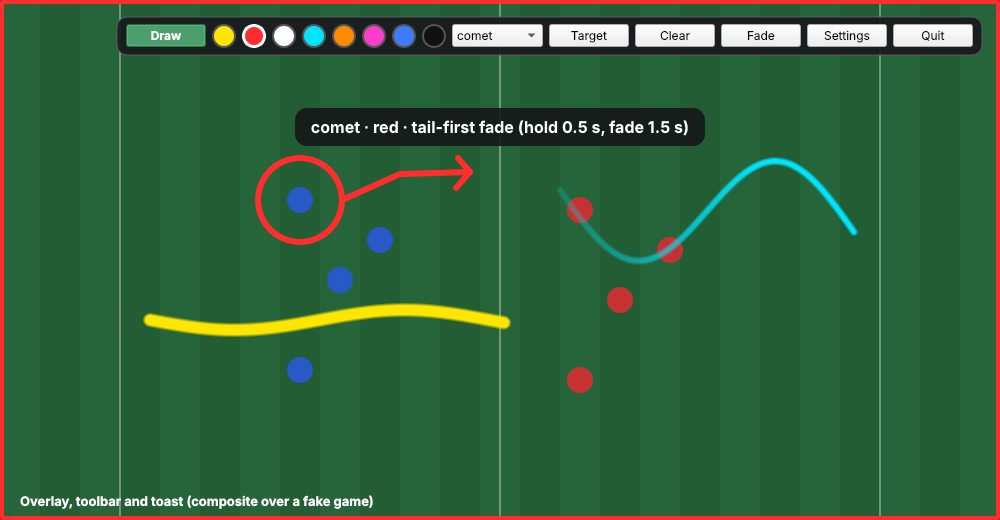
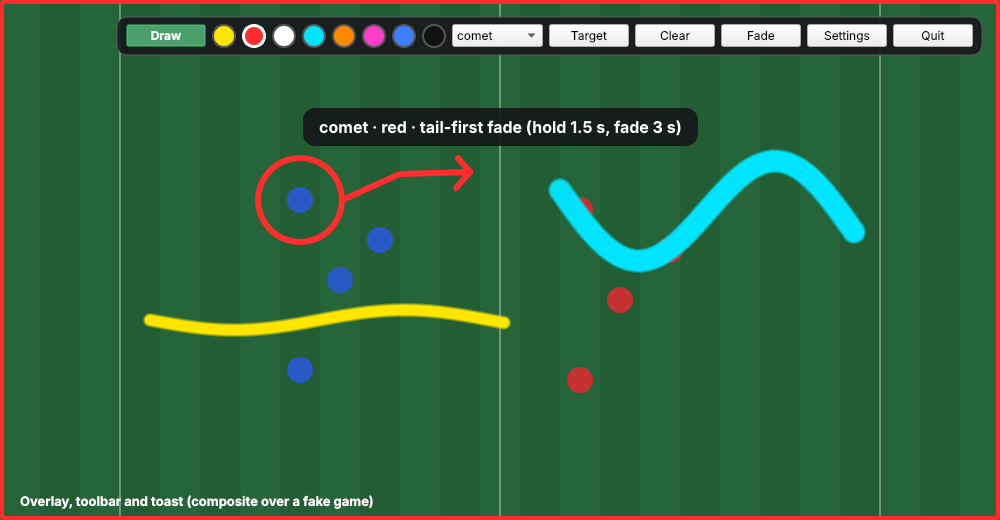
docs: update the comet defaults, mention reset, refresh screenshots
The README's pen table shows the new comet defaults (24 px, hold 1.5 s,
fade 3 s) and the settings section mentions the larger dialog and the
Reset to defaults button. The screenshot script now shows the settings
dialog at its own default size, and the pictures are regenerated.
Refreshes the session log.

AIA PAI SeCeNc Hin R Claude Code Web Sonnet 5.5 Medium v1.0

Vibe-Coder: Vibe-Coder 1.z3r0 <243014891+vibecoder-1z3r0@users.noreply.github.com>

Changed region(s): [[0.527, 0.2769, 0.868, 0.5231], [0.279, 0.2154, 0.713, 0.2769]]

diff --git a/scripts/screenshots.py b/scripts/screenshots.py
@@ -122,8 +122,7 @@ def overlay_screenshot(out: Path) -> None:
     frame.save(str(out / "overlay.png"))
 
     dialog = SettingsDialog(c.settings, c.pens)
-    dialog.resize(760, 420)
-    dialog.show()
+    dialog.show()  # at its own default size, as a user sees it
     dialog.grab().save(str(out / "settings.png"))
     dialog.close()
 

diff --git a/SESSION_LOG.md b/SESSION_LOG.md
@@ -77,17 +77,18 @@ Source: `/root/.claude/projects/-home-user/83b6fe43-fdef-5d48-9254-009a9ebfb942.
 | 71 | the clicks are going right through to the demo app when running `uv ru… | 12:59:18 | 1m 12s | 46s | 32 | 22,874 | 28,713 | 8,827,758 |
 | 72 | yes i can toggle draw mode | 13:01:16 | 5m 5s | 30m 51s ⏳ | 70 | 125,271 | 145,445 | 20,933,086 |
 | 73 | Yes go ahead make the pr | 13:37:11 | 3m 6s | 52m 44s ⏳ | 74 | 29,537 | 90,579 | 23,579,438 |
-| 74 | it actually works!! :) | 14:33:01 | 24s | — | 10 | 6,956 | 2,819 | 3,210,649 |
+| 74 | it actually works!! :) | 14:33:01 | 37s | 18s | 16 | 7,925 | 8,631 | 5,143,192 |
+| 75 | The settings box needs to be larger - also we need more sensible defau… | 14:33:56 | 2m 13s | — | 51 | 53,088 | 68,924 | 15,741,691 |
 
-**Total turns:** 74  
-**Total agent time spent (excl. flagged):** 1h 1m  
+**Total turns:** 75  
+**Total agent time spent (excl. flagged):** 1h 4m  
 **Total human think time (excl. outliers):** 1h 35m  
-**Average human think time (excl. outliers):** 1m 22s  
+**Average human think time (excl. outliers):** 1m 21s  
 **Think-time outliers (> 15 min):** 3  
-**Total input tokens:** 1,678  
-**Total output tokens:** 1,249,027  
-**Total cache-write tokens:** 2,340,206  
-**Total cache-read tokens:** 237,734,353  
+**Total input tokens:** 1,735  
+**Total output tokens:** 1,303,084  
+**Total cache-write tokens:** 2,414,942  
+**Total cache-read tokens:** 255,408,587  
 **Cache hit ratio (cache-read ÷ all prompt-side tokens):** 99%
 
 ⏳ Turn(s) 65, 72, 73 had a 'human think time' over 15 min (total 34h 59m) — likely a break, a resumed session, or time reading a long response rather than active back-and-forth. Excluded from BOTH the total and the average above (still shown per-row).

diff --git a/README.md b/README.md
@@ -83,7 +83,7 @@ Each pen has a color, width, feather (softness of the edge, in pixels; 0 is a ha
 | marker | red | 6 / 0 | held until cleared |
 | highlighter | yellow | 14 / 2 | held until cleared |
 | flash | magenta | 8 / 2 | timed fade: solid for 1 s after you lift the pen, then fade over 2 s |
-| comet | cyan | 8 / 2 | tail-first fade: each point holds 0.5 s, then fades over 1.5 s |
+| comet | cyan | 24 / 2 | tail-first fade: each point holds 1.5 s, then fades over 3 s |
 
 ![The three dissipation modes over time](docs/screenshots/dissipation.png)
 
@@ -91,7 +91,7 @@ Every pen has a **hold** time and a **fade** time, each from 0.0 to 10.0 seconds
 
 ### Settings
 
-Open **Settings** from the toolbar or tray. You can change the hotkey prefix (`Ctrl+Shift` or `Ctrl+Alt`, if a game already uses one), hold-to-draw (draw only while the draw key is held), the fade-all time and each pen. Settings are saved per user:
+Open **Settings** from the toolbar or tray. The dialog opens large enough to see every pen at once, and you can resize it. **Reset to defaults** puts the built-in values back in the form (nothing is saved until you press OK). You can change the hotkey prefix (`Ctrl+Shift` or `Ctrl+Alt`, if a game already uses one), hold-to-draw (draw only while the draw key is held), the fade-all time and each pen. Settings are saved per user:
 
 - Windows: `%APPDATA%\madden-mode\settings.json`
 - Linux: `~/.config/madden-mode/settings.json`
